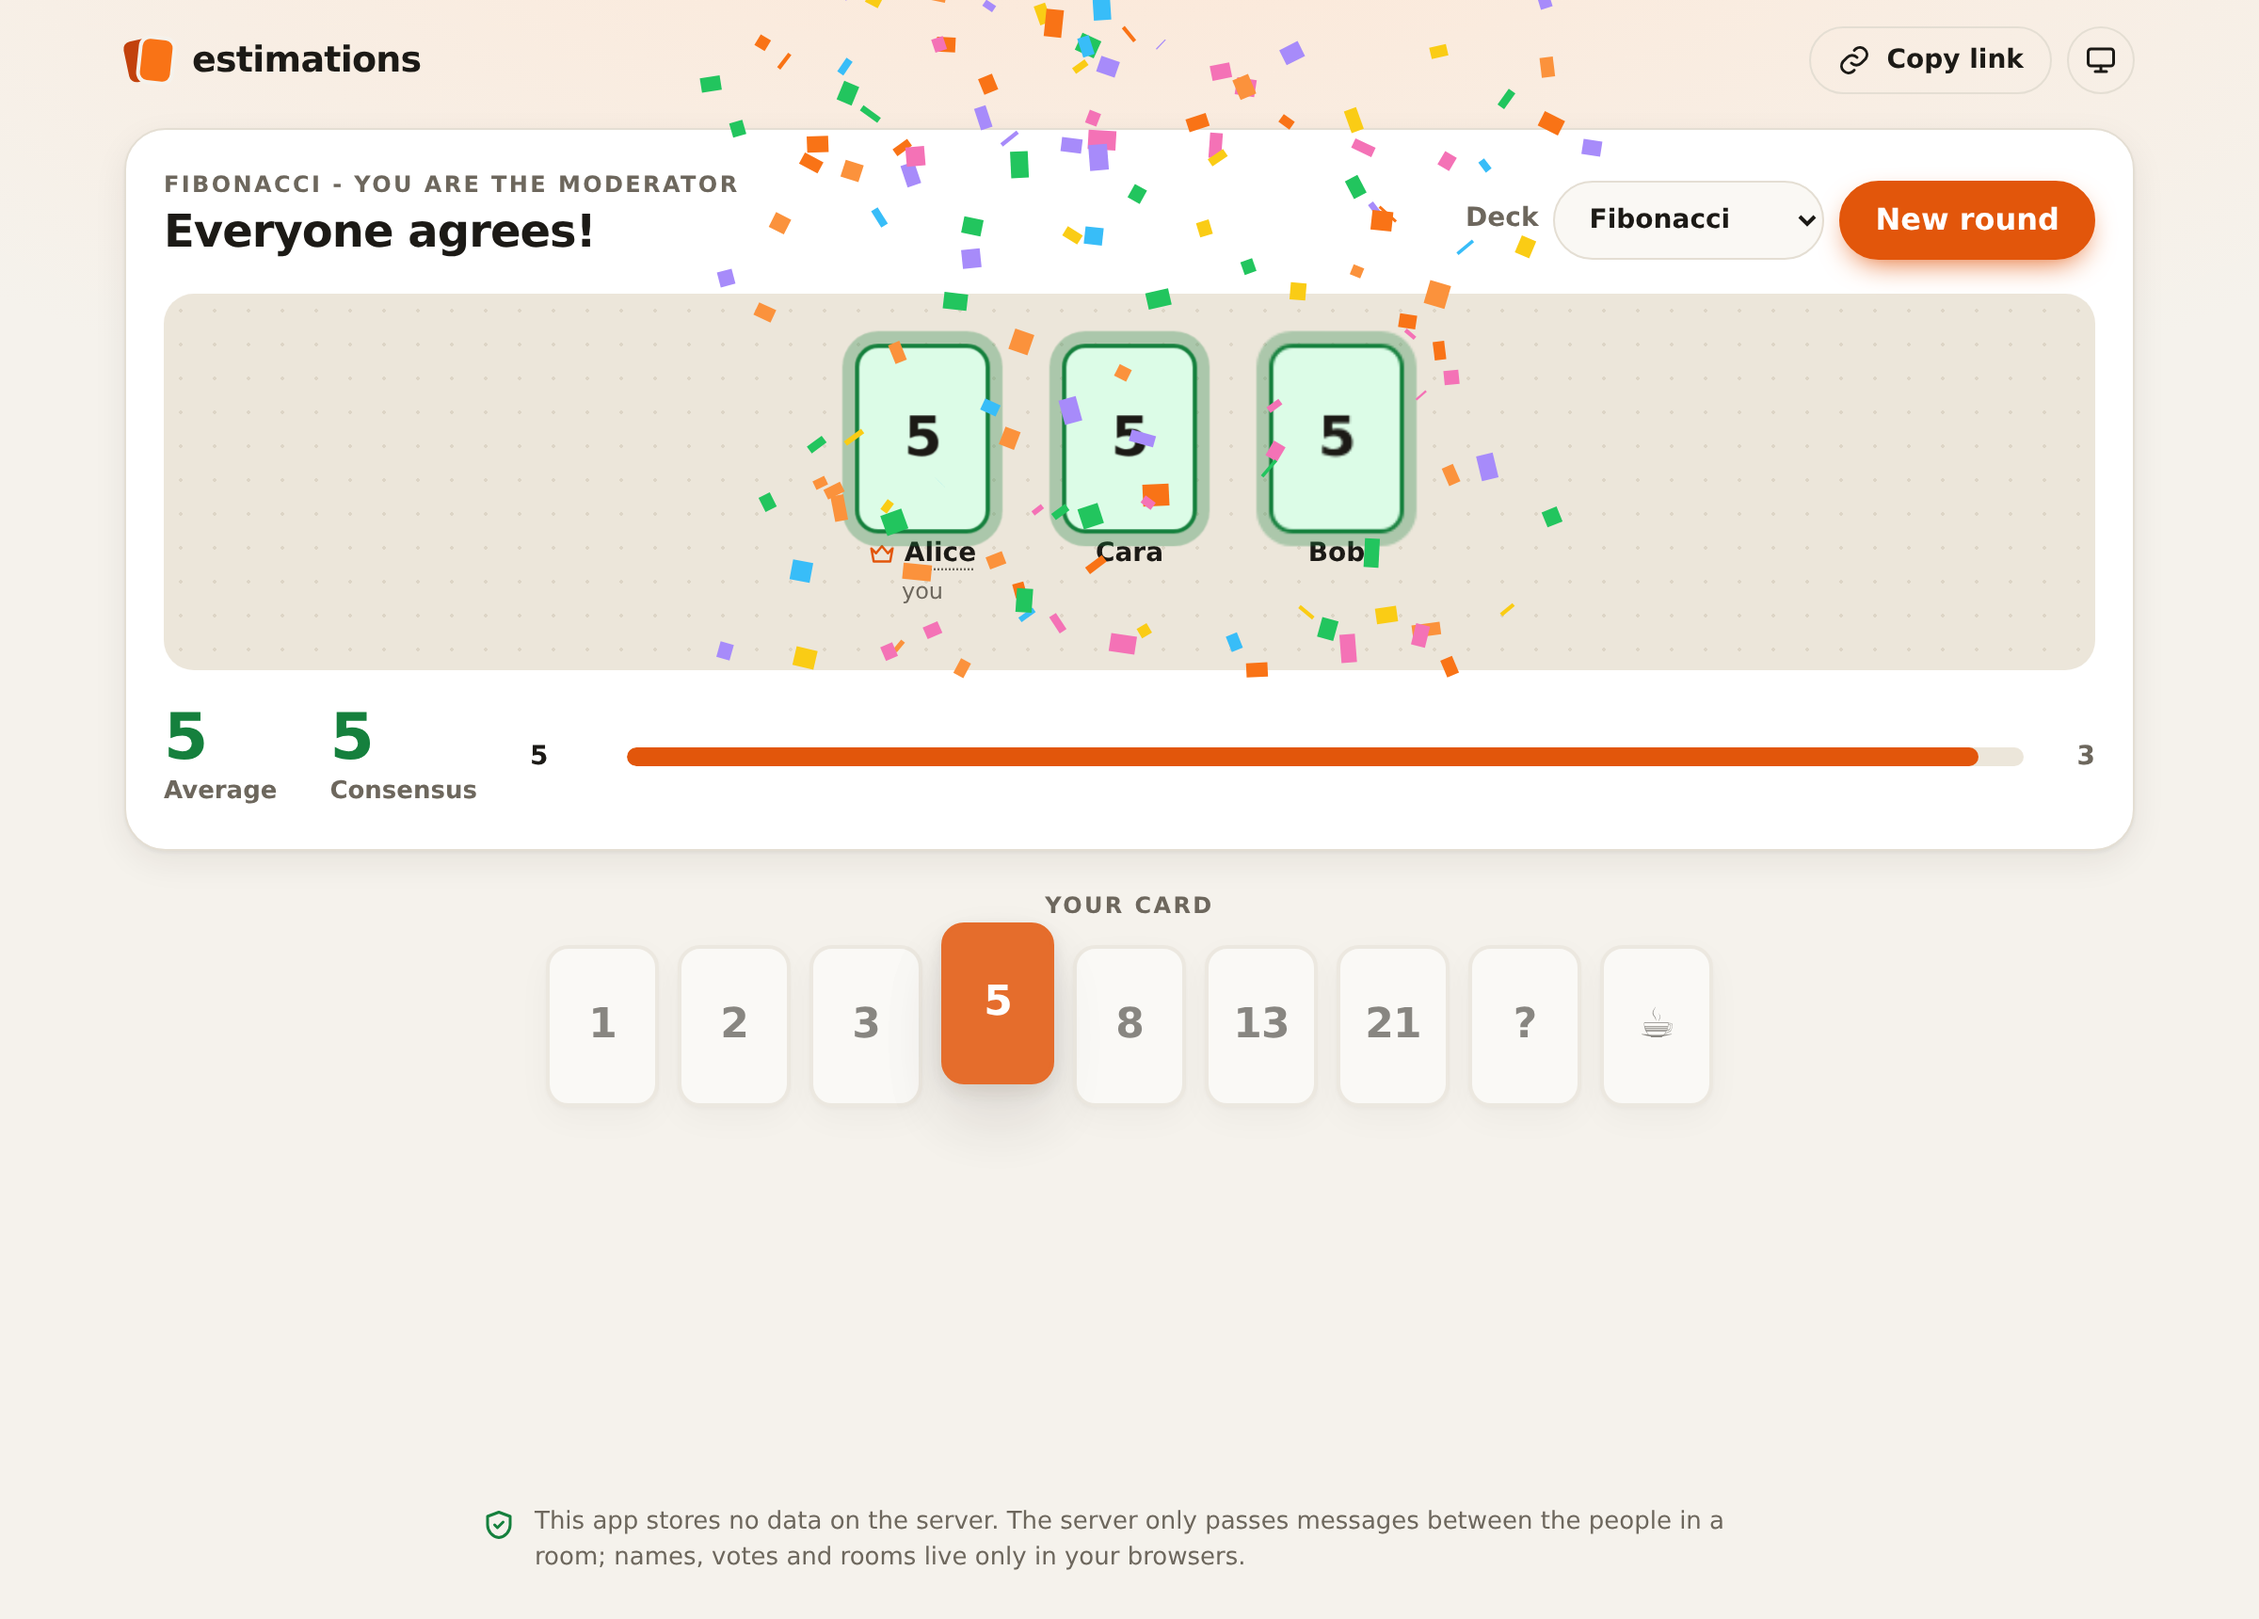
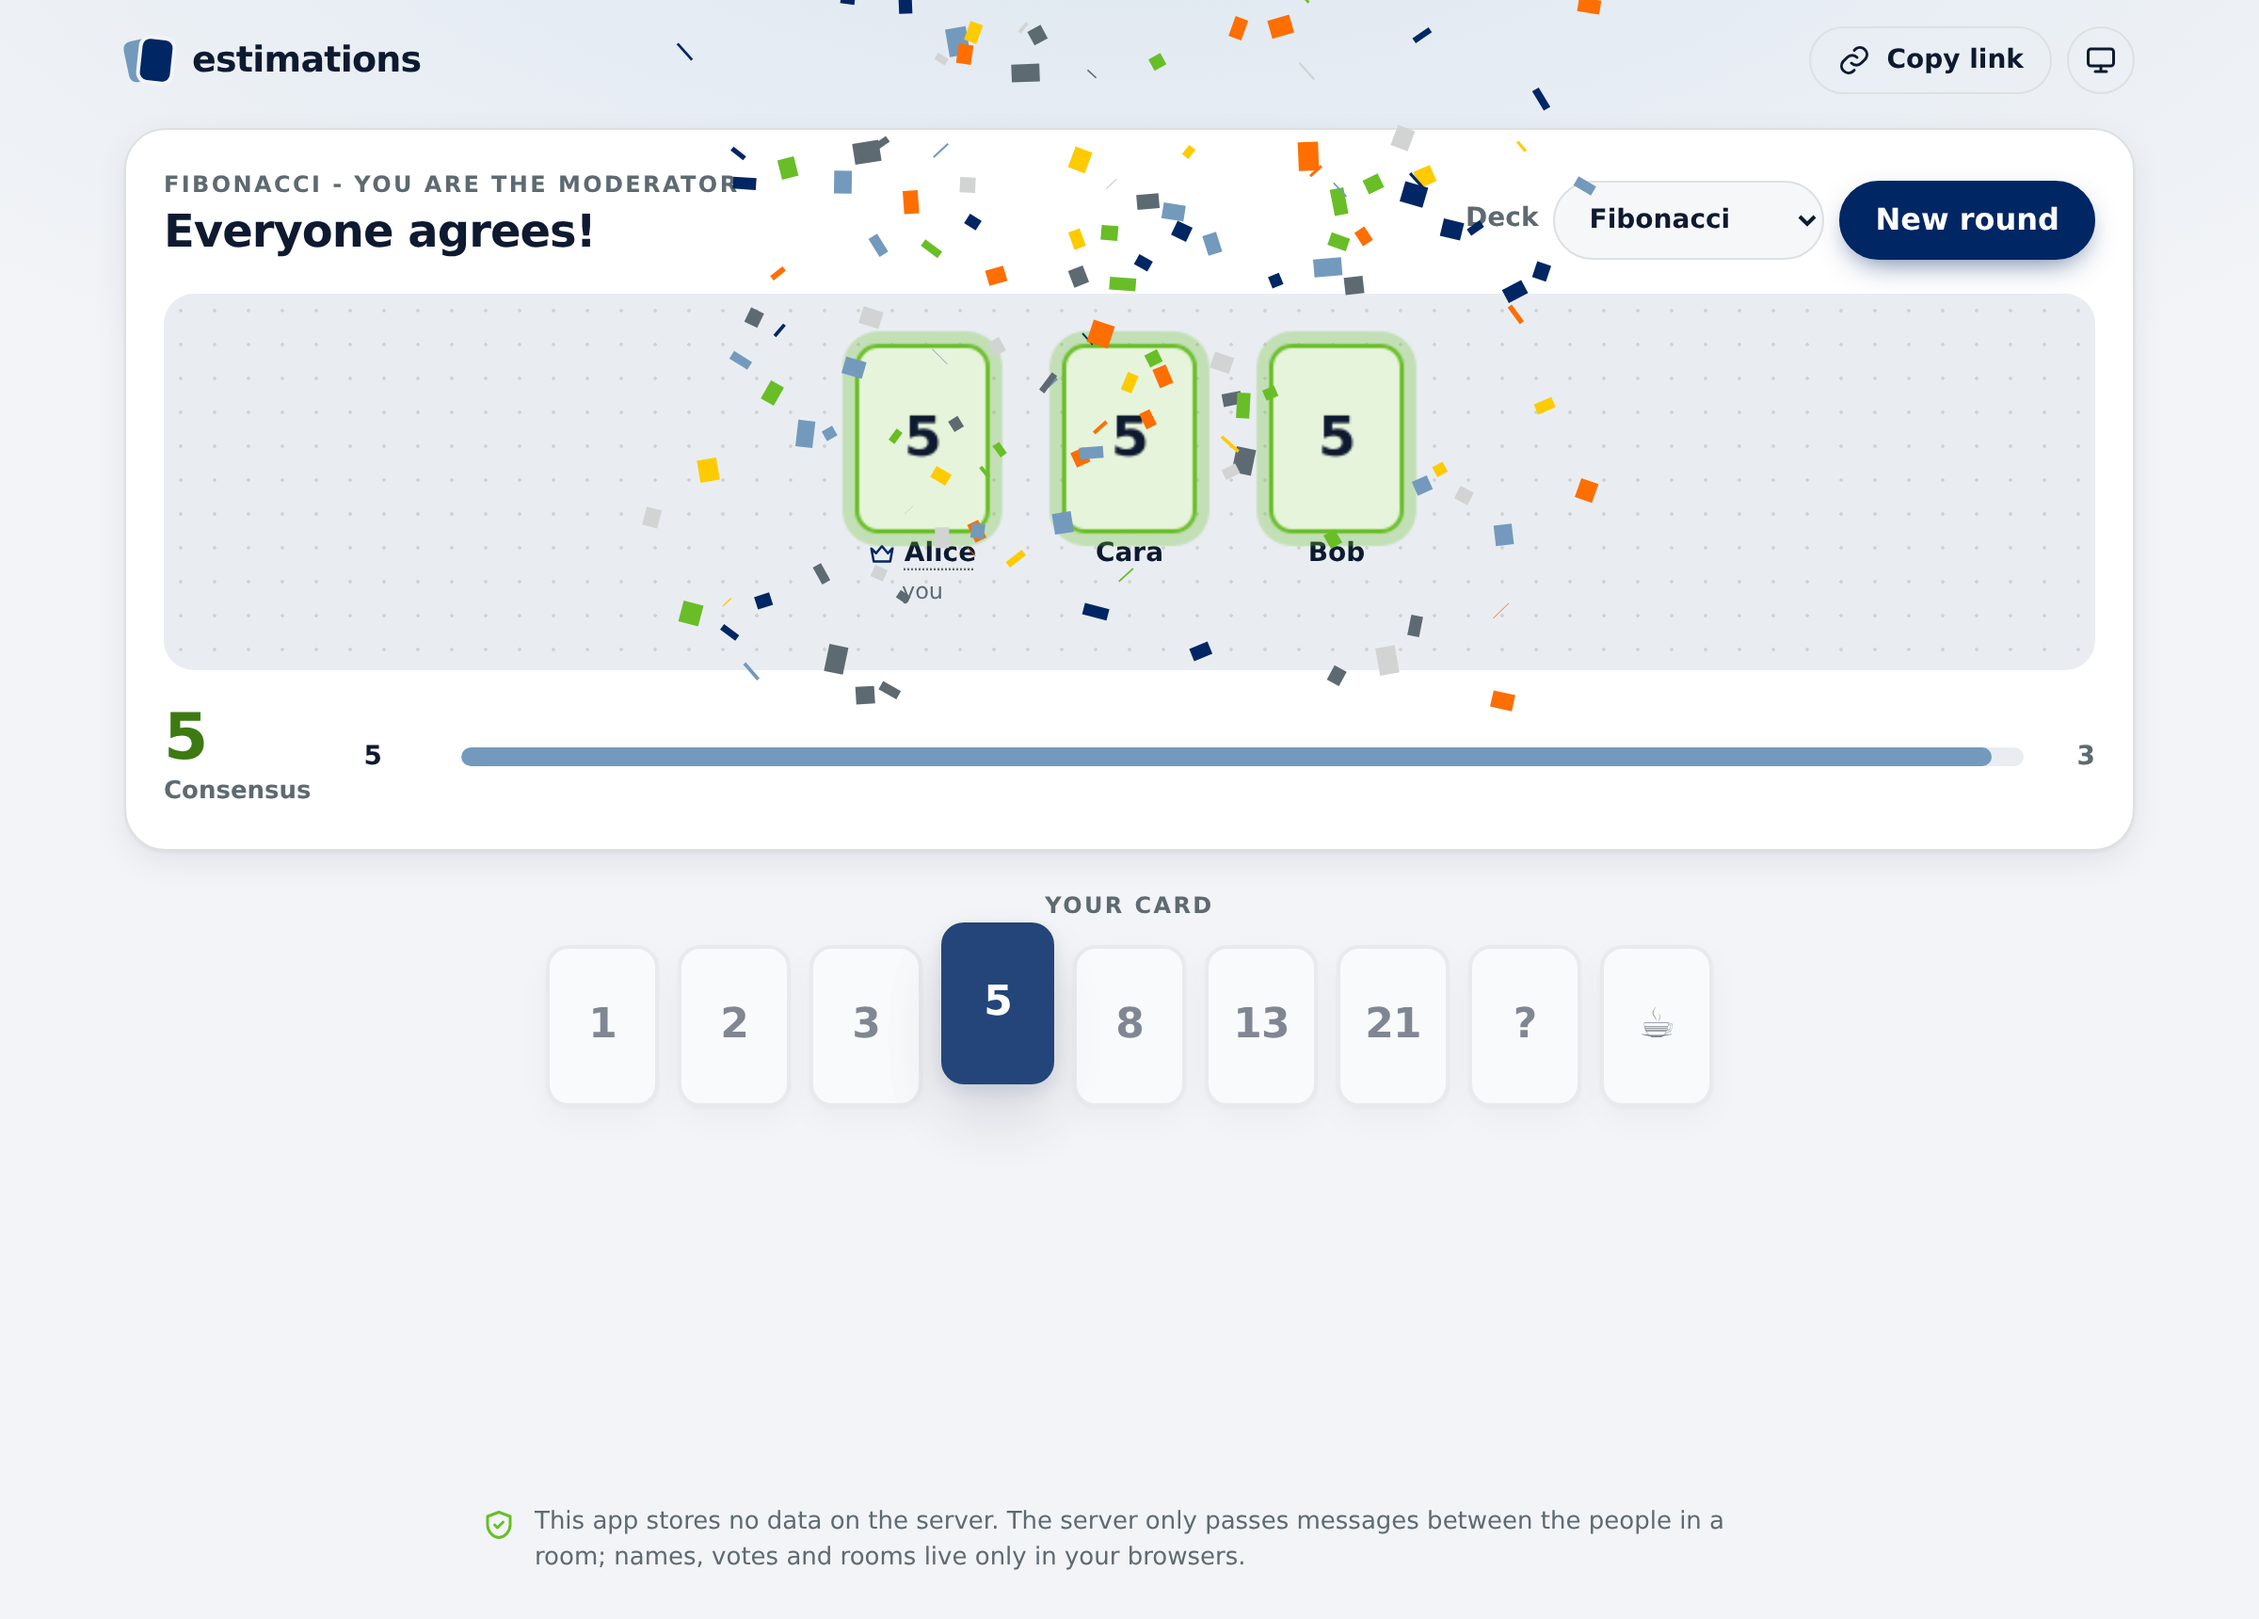
navy and light blue palette, screenshots updated

diff --git a/public/style.css b/public/style.css
@@ -1,72 +1,90 @@
 :root {
-  --bg: #f5f2ec;
-  --bg-glow: #fde7d6;
+  --bg: #f2f4f7;
+  --bg-glow: #dce6f0;
   --surface: #ffffff;
-  --surface-2: #faf8f4;
-  --ink: #1c1a16;
-  --muted: #6d675d;
-  --line: #e4ded3;
-  --felt: #ece6da;
-  --felt-line: #ddd5c6;
-  --accent: #e2560b;
-  --accent-strong: #c2410c;
-  --accent-soft: #fde4d2;
+  --surface-2: #f6f7f9;
+  --ink: #0e1a30;
+  --muted: #5e6a71;
+  --line: #dde0e2;
+  --felt: #e9edf2;
+  --felt-line: #d1d4d3;
+  --accent: #002664;
+  --accent-strong: #001a47;
+  --accent-soft: #e1e9f2;
   --accent-ink: #ffffff;
-  --back-a: #f97316;
-  --back-b: #c2410c;
-  --ok: #15803d;
-  --ok-soft: #dcfce7;
-  --shadow: 0 1px 2px rgba(40, 30, 10, .06), 0 6px 18px rgba(40, 30, 10, .07);
-  --shadow-lift: 0 4px 10px rgba(40, 30, 10, .12), 0 18px 36px rgba(40, 30, 10, .14);
+  --back-a: #1d4b8f;
+  --back-b: #002664;
+  --mark-a: #739abc;
+  --mark-b: #002664;
+  --bar: #739abc;
+  --warn-soft: #fff3c4;
+  --warn-ink: #6b4f00;
+  --ok: #69be28;
+  --ok-ink: #3d7a12;
+  --ok-soft: #e7f4dc;
+  --shadow: 0 1px 2px rgba(0, 20, 60, .06), 0 6px 18px rgba(0, 20, 60, .07);
+  --shadow-lift: 0 4px 10px rgba(0, 20, 60, .12), 0 18px 36px rgba(0, 20, 60, .14);
   --radius: 14px;
   color-scheme: light;
 }
 
 @media (prefers-color-scheme: dark) {
   :root:not([data-theme="light"]) {
-    --bg: #12110e;
-    --bg-glow: #2a1a0e;
-    --surface: #1c1b17;
-    --surface-2: #232220;
-    --ink: #f1ede4;
-    --muted: #a19b8f;
-    --line: #2f2d28;
-    --felt: #191814;
-    --felt-line: #2a2823;
-    --accent: #fb7a32;
-    --accent-strong: #fd9a5c;
-    --accent-soft: #3a2314;
-    --accent-ink: #1a0d04;
-    --back-a: #f97316;
-    --back-b: #9a3412;
-    --ok: #4ade80;
-    --ok-soft: #12321f;
-    --shadow: 0 1px 2px rgba(0, 0, 0, .4), 0 6px 18px rgba(0, 0, 0, .35);
-    --shadow-lift: 0 4px 10px rgba(0, 0, 0, .5), 0 18px 36px rgba(0, 0, 0, .5);
+    --bg: #08101e;
+    --bg-glow: #0f2550;
+    --surface: #101b2f;
+    --surface-2: #16233a;
+    --ink: #e9eef5;
+    --muted: #9aa7b3;
+    --line: #22324c;
+    --felt: #0c1628;
+    --felt-line: #1e2d47;
+    --accent: #739abc;
+    --accent-strong: #93b4d3;
+    --accent-soft: #182c4b;
+    --accent-ink: #001a47;
+    --back-a: #2a5aa3;
+    --back-b: #002664;
+    --mark-a: #739abc;
+    --mark-b: #2a5aa3;
+    --bar: #739abc;
+    --warn-soft: #3a2f08;
+    --warn-ink: #fecb00;
+    --ok: #69be28;
+    --ok-ink: #8fd65a;
+    --ok-soft: #13301c;
+    --shadow: 0 1px 2px rgba(0, 0, 0, .45), 0 6px 18px rgba(0, 0, 0, .4);
+    --shadow-lift: 0 4px 10px rgba(0, 0, 0, .55), 0 18px 36px rgba(0, 0, 0, .5);
     color-scheme: dark;
   }
 }
 
 :root[data-theme="dark"] {
-  --bg: #12110e;
-  --bg-glow: #2a1a0e;
-  --surface: #1c1b17;
-  --surface-2: #232220;
-  --ink: #f1ede4;
-  --muted: #a19b8f;
-  --line: #2f2d28;
-  --felt: #191814;
-  --felt-line: #2a2823;
-  --accent: #fb7a32;
-  --accent-strong: #fd9a5c;
-  --accent-soft: #3a2314;
-  --accent-ink: #1a0d04;
-  --back-a: #f97316;
-  --back-b: #9a3412;
-  --ok: #4ade80;
-  --ok-soft: #12321f;
-  --shadow: 0 1px 2px rgba(0, 0, 0, .4), 0 6px 18px rgba(0, 0, 0, .35);
-  --shadow-lift: 0 4px 10px rgba(0, 0, 0, .5), 0 18px 36px rgba(0, 0, 0, .5);
+  --bg: #08101e;
+  --bg-glow: #0f2550;
+  --surface: #101b2f;
+  --surface-2: #16233a;
+  --ink: #e9eef5;
+  --muted: #9aa7b3;
+  --line: #22324c;
+  --felt: #0c1628;
+  --felt-line: #1e2d47;
+  --accent: #739abc;
+  --accent-strong: #93b4d3;
+  --accent-soft: #182c4b;
+  --accent-ink: #001a47;
+  --back-a: #2a5aa3;
+  --back-b: #002664;
+  --mark-a: #739abc;
+  --mark-b: #2a5aa3;
+  --bar: #739abc;
+  --warn-soft: #3a2f08;
+  --warn-ink: #fecb00;
+  --ok: #69be28;
+  --ok-ink: #8fd65a;
+  --ok-soft: #13301c;
+  --shadow: 0 1px 2px rgba(0, 0, 0, .45), 0 6px 18px rgba(0, 0, 0, .4);
+  --shadow-lift: 0 4px 10px rgba(0, 0, 0, .55), 0 18px 36px rgba(0, 0, 0, .5);
   color-scheme: dark;
 }
 
@@ -104,8 +122,8 @@ svg { width: 18px; height: 18px; fill: none; stroke: currentColor; stroke-width:
 .brand { display: inline-flex; align-items: center; gap: 10px; font-weight: 800; font-size: 19px; letter-spacing: -.02em; color: var(--ink); text-decoration: none; }
 .brand-mark { position: relative; width: 26px; height: 26px; }
 .brand-mark i { position: absolute; width: 16px; height: 22px; border-radius: 4px; top: 2px; }
-.brand-mark i:first-child { left: 1px; background: var(--back-b); transform: rotate(-12deg); }
-.brand-mark i:last-child { left: 9px; background: var(--back-a); transform: rotate(6deg); box-shadow: 0 0 0 2px var(--bg); }
+.brand-mark i:first-child { left: 1px; background: var(--mark-a); transform: rotate(-12deg); }
+.brand-mark i:last-child { left: 9px; background: var(--mark-b); transform: rotate(6deg); box-shadow: 0 0 0 2px var(--bg); }
 .topbar-actions { display: flex; gap: 8px; align-items: center; }
 
 /* buttons */
@@ -129,7 +147,7 @@ svg { width: 18px; height: 18px; fill: none; stroke: currentColor; stroke-width:
 .btn:hover { border-color: var(--muted); }
 .btn:active { transform: scale(.97); }
 .btn:focus-visible, .pick:focus-visible, select:focus-visible { outline: 3px solid var(--accent); outline-offset: 2px; }
-.btn.primary { background: var(--accent); border-color: var(--accent); color: var(--accent-ink); box-shadow: 0 6px 16px -6px var(--accent); }
+.btn.primary { background: var(--accent); border-color: var(--accent); color: var(--accent-ink); box-shadow: 0 6px 16px -6px color-mix(in srgb, var(--accent) 70%, transparent); }
 .btn.primary:hover { background: var(--accent-strong); border-color: var(--accent-strong); }
 .btn.ghost { background: transparent; }
 .btn.small { min-height: 36px; padding: 0 14px; font-size: 14px; }
@@ -149,7 +167,7 @@ svg { width: 18px; height: 18px; fill: none; stroke: currentColor; stroke-width:
 .lede { font-size: 18px; color: var(--muted); margin: 0 auto 32px; max-width: 30em; }
 .facts { list-style: none; padding: 0; margin: 40px auto 0; display: grid; gap: 10px; text-align: left; max-width: 26em; color: var(--muted); }
 .facts li { padding-left: 26px; position: relative; }
-.facts li::before { content: ""; position: absolute; left: 4px; top: .55em; width: 9px; height: 9px; border-radius: 3px; background: var(--accent); transform: rotate(45deg); }
+.facts li::before { content: ""; position: absolute; left: 4px; top: .55em; width: 9px; height: 9px; border-radius: 3px; background: var(--mark-a); transform: rotate(45deg); }
 .facts b { color: var(--ink); }
 .hero-cards { position: relative; height: 130px; margin-bottom: 18px; }
 .hcard {
@@ -165,7 +183,7 @@ svg { width: 18px; height: 18px; fill: none; stroke: currentColor; stroke-width:
 
 /* room */
 .room { flex: 1; width: 100%; max-width: 1100px; margin: 0 auto; padding: 4px 16px 24px; display: flex; flex-direction: column; gap: 20px; }
-.conn-banner { align-self: center; padding: 6px 14px; border-radius: 999px; background: var(--accent-soft); color: var(--accent-strong); font-size: 14px; font-weight: 600; }
+.conn-banner { align-self: center; padding: 6px 14px; border-radius: 999px; background: var(--warn-soft); color: var(--warn-ink); font-size: 14px; font-weight: 600; }
 .eyebrow { margin: 0; font-size: 12px; text-transform: uppercase; letter-spacing: .1em; font-weight: 700; color: var(--muted); }
 .table-wrap { background: var(--surface); border: 1px solid var(--line); border-radius: 22px; box-shadow: var(--shadow); padding: 20px; }
 .table-head { display: flex; flex-wrap: wrap; align-items: flex-end; justify-content: space-between; gap: 14px; margin-bottom: 18px; }
@@ -215,11 +233,11 @@ svg { width: 18px; height: 18px; fill: none; stroke: currentColor; stroke-width:
 .stat { display: flex; flex-direction: column; }
 .stat b { font-size: 34px; line-height: 1.1; letter-spacing: -.03em; }
 .stat span { font-size: 13px; color: var(--muted); font-weight: 600; }
-.stat.consensus b { color: var(--ok); }
+.stat.consensus b { color: var(--ok-ink); }
 .bars { flex: 1; min-width: 220px; display: grid; gap: 6px; }
 .bar { display: grid; grid-template-columns: 42px 1fr 28px; gap: 10px; align-items: center; font-size: 14px; font-weight: 700; }
 .bar-track { height: 10px; border-radius: 99px; background: var(--felt); overflow: hidden; }
-.bar-fill { height: 100%; border-radius: 99px; background: var(--accent); width: 0; transition: width .6s ease-out; }
+.bar-fill { height: 100%; border-radius: 99px; background: var(--bar); width: 0; transition: width .6s ease-out; }
 .bar .n { color: var(--muted); text-align: right; }
 
 /* hand */

diff --git a/public/app.js b/public/app.js
@@ -587,7 +587,7 @@ function startRoom(roomId) {
     canvas.width = innerWidth * dpr;
     canvas.height = innerHeight * dpr;
     ctx.scale(dpr, dpr);
-    const colors = ['#f97316', '#fb923c', '#facc15', '#22c55e', '#38bdf8', '#a78bfa', '#f472b6'];
+    const colors = ['#002664', '#739abc', '#69be28', '#fecb00', '#ff6e00', '#5e6a71', '#d1d4d3'];
     const parts = Array.from({ length: 180 }, () => ({
       x: innerWidth / 2 + (Math.random() - 0.5) * 120,
       y: innerHeight * 0.35,
